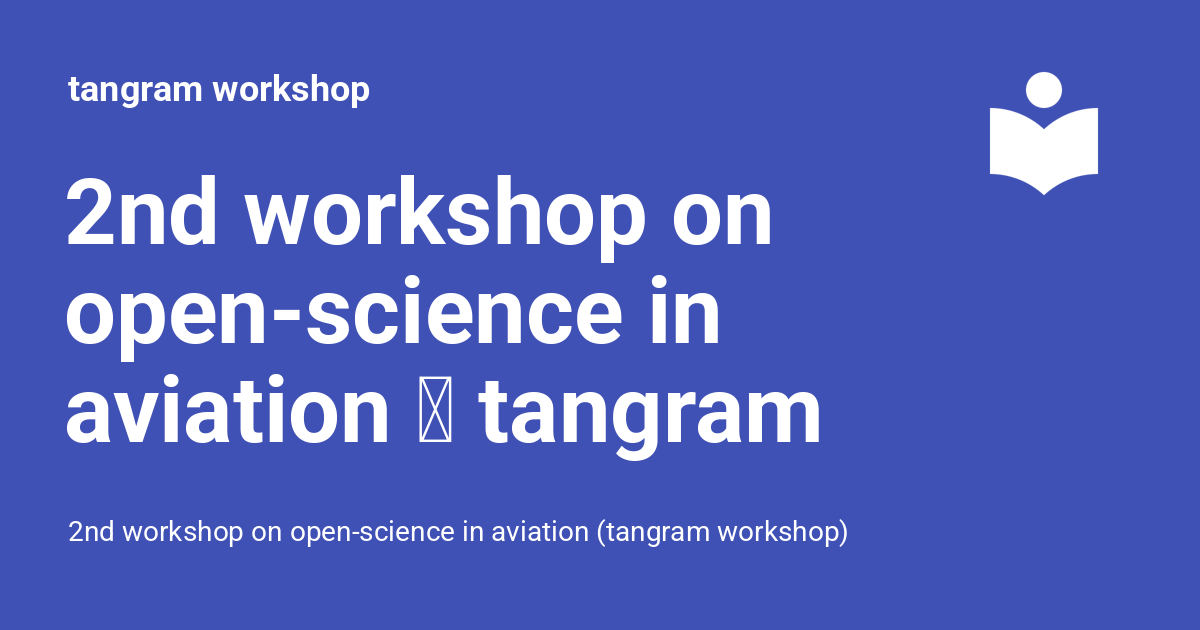
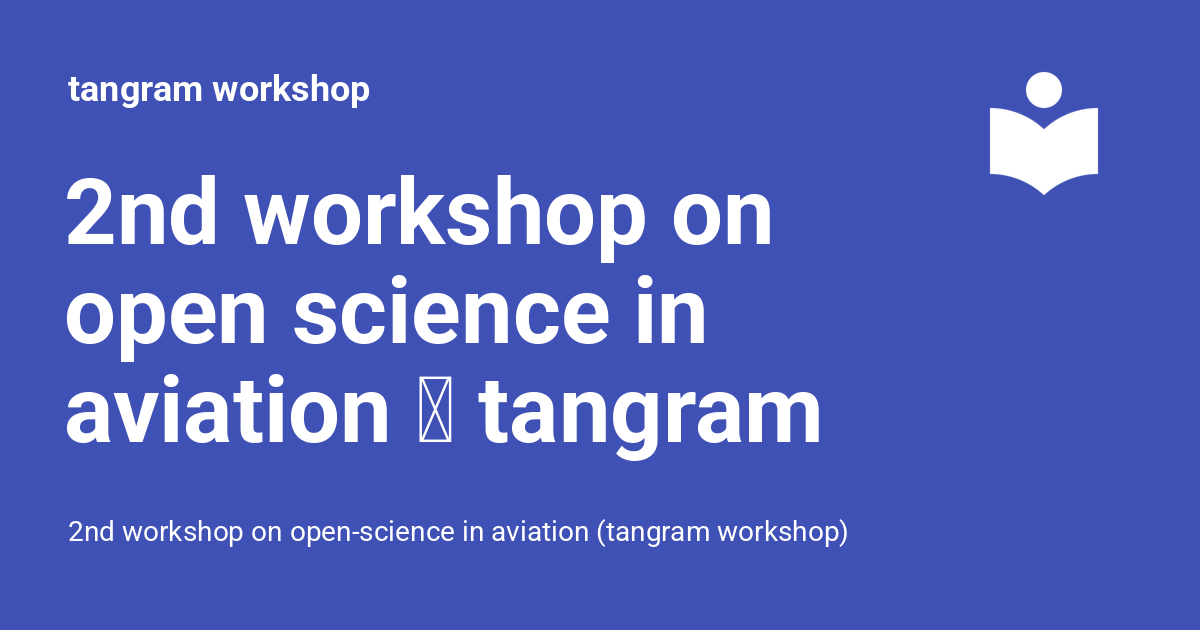
deploy: 7ed398395958f596fcc256a47e6a40c2f3838a51

Changed region(s): [[0.2158, 0.4222, 0.6167, 0.5429]]

diff --git a/index.html b/index.html
@@ -134,7 +134,7 @@
         <div class="md-header__topic" data-md-component="header-topic">
           <span class="md-ellipsis">
             
-              2nd workshop on open-science in aviation 🌷 tangram
+              2nd workshop on open science in aviation 🌷 tangram
             
           </span>
         </div>
@@ -427,7 +427,7 @@
 
 
 
-<h1 id="2nd-workshop-on-open-science-in-aviation-tangram">2nd workshop on open-science in aviation 🌷 tangram</h1>
+<h1 id="2nd-workshop-on-open-science-in-aviation-tangram">2nd workshop on open science in aviation 🌷 tangram</h1>
 <p>We are pleased to <strong>announce the 2nd edition of this workshop</strong> on 3 and 4 April 2025 in TU Delft 🇳🇱 (The Netherlands), following the success of the <a href="https://blog.westminster.ac.uk/atm-team/open-source-tools-activities/">1st workshop on open-source tools for air traffic
 management and research</a> on <a href="https://blog.westminster.ac.uk/atm-team/wp-content/uploads/sites/114/2025/01/2024-11-Mercury_tutorial_workshop.pdf">mercury</a> open-source tool.</p>
 <p>The workshop aims at discussing and sharing experiences in making aviation research more open and accessible.</p>
@@ -457,7 +457,7 @@ management and research</a> on <a href="https://blog.westminster.ac.uk/atm-team/
 </table>
 <h2 id="registration">Registration</h2>
 <p>The workshop is free of charge.<br />
-However, for logistics purposes, we ask you to kindly register using 
+However, for logistics purposes, we ask you to register using 
 <a href="https://forms.gle/4FNvuQbTYm55Wrv99">the online form</a>.</p>
 <h2 id="agenda-tentative">Agenda (tentative)</h2>
 <p>The current agenda is still subject to minor adjustments.<br />
@@ -475,9 +475,9 @@ Xavier Olive (ONERA)</p>
 <h3 id="lunch-1200-1300">Lunch (12:00-13:00)</h3>
 <h3 id="day-1-part-2-open-data-in-aviation">Day 1 · Part 2 – Open data in aviation</h3>
 <p>The afternoon consists of two hands-on sessions. 
-Laptops are sufficient (an internet connection will be avaiable), and basic knowledge of Python for data science is expected.</p>
+Laptops are sufficient (an internet connection will be available), and basic knowledge of Python for data science is expected.</p>
 <p>13:00 – <strong>A tour through aviation sources of data</strong> <em>(hands-on session)</em><br />
-Tatjana Bolic (University of Westminster)</p>
+Gerald Gurtner (University of Westminster)</p>
 <p>15:00 – <strong>Around OpenSky Network data: what is available and what is not?</strong>
 <em>(hands-on session)</em><br />
 Junzi Sun, Xavier Olive</p>
@@ -487,7 +487,7 @@ Junzi Sun, Xavier Olive</p>
 Xavier Olive, Junzi Sun</p>
 <h2 id="registration_1">Registration</h2>
 <p>The workshop is free of charge.<br />
-However, for logistics purposes, we ask you to kindly register using 
+However, for logistics purposes, we ask you to register using 
 <a href="https://forms.gle/4FNvuQbTYm55Wrv99">the online form</a>.</p>
 
 
